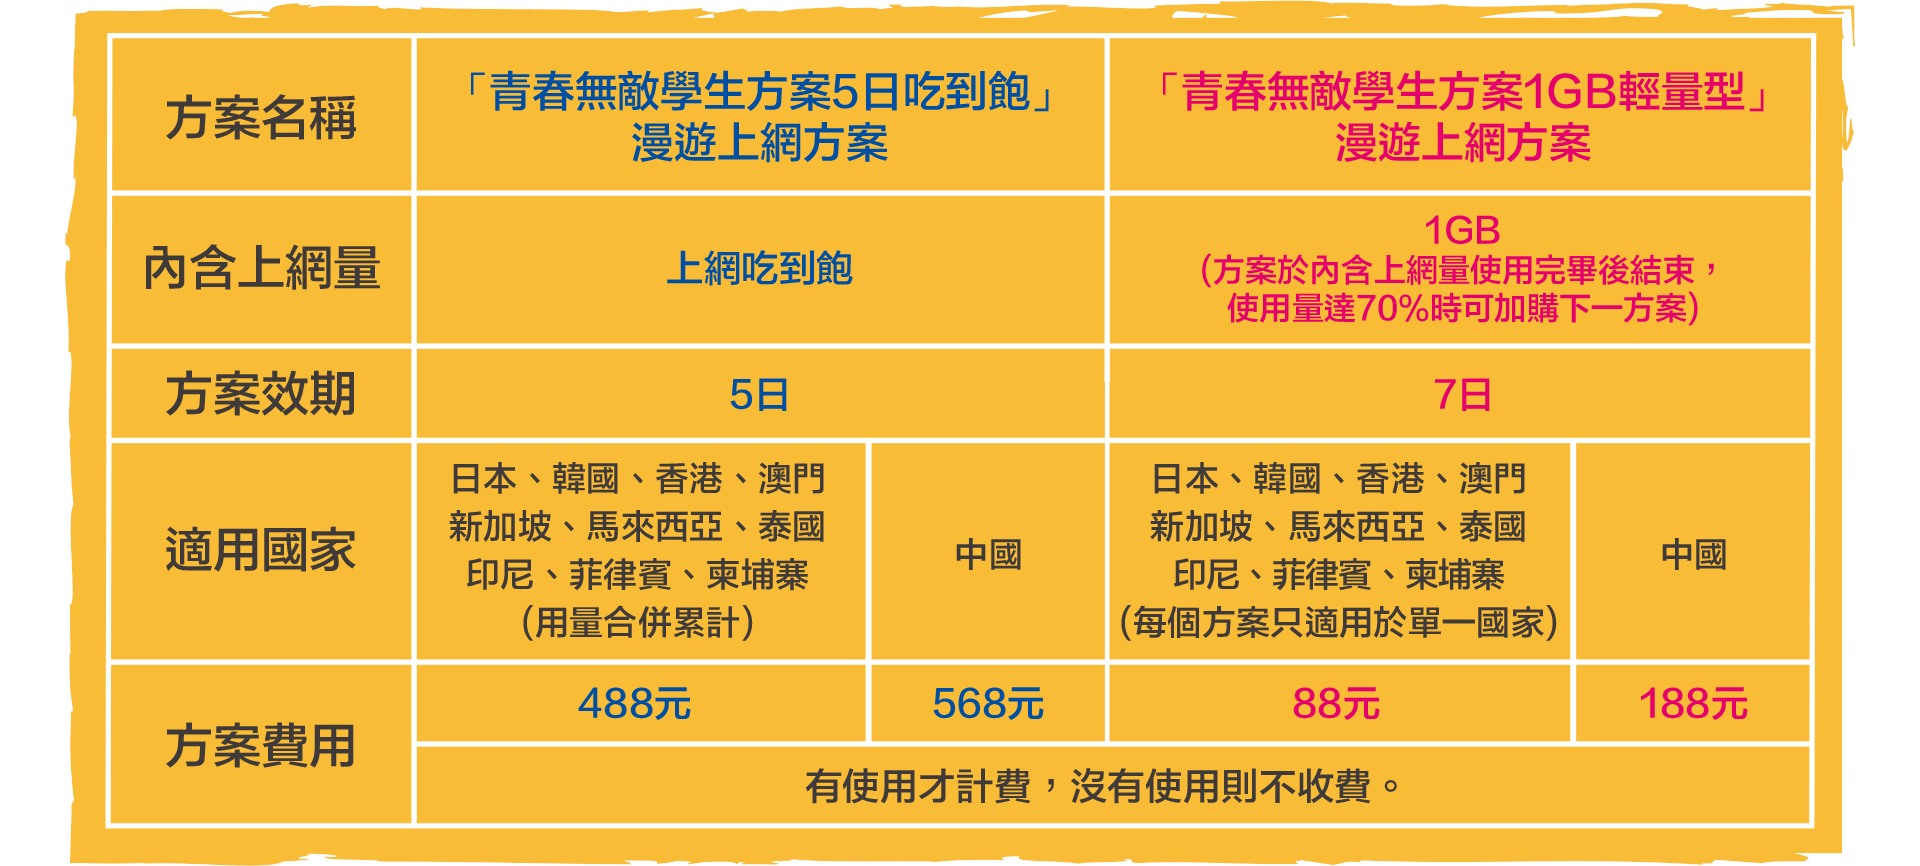
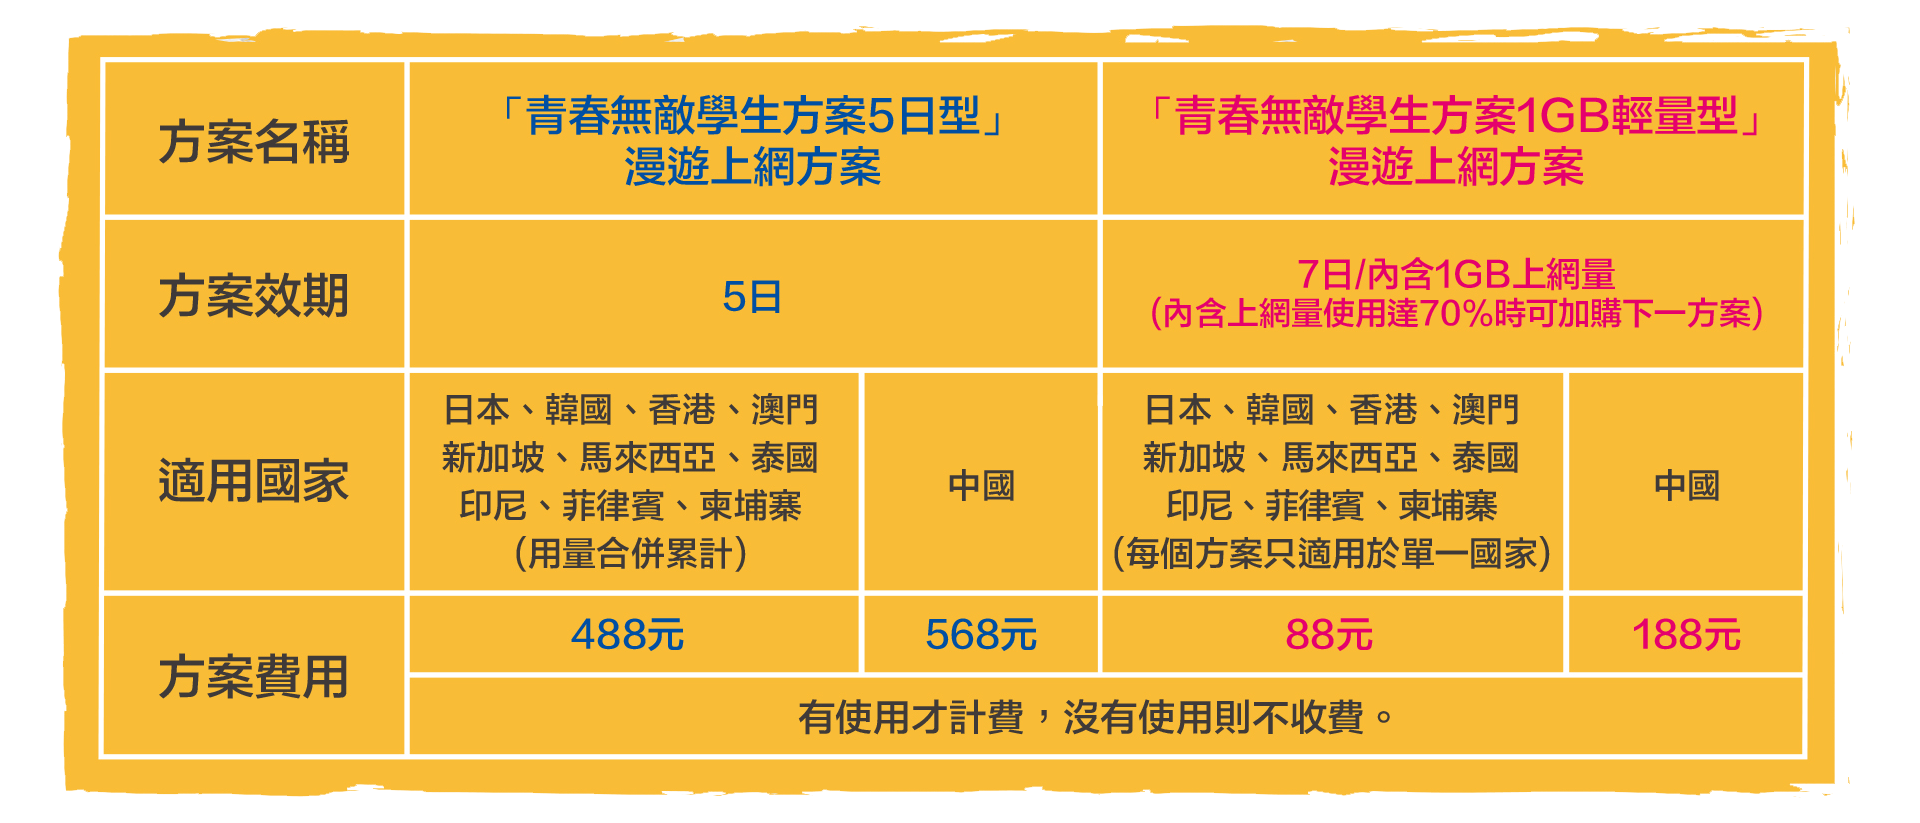
國際漫遊
學生方案 表格調整 保護文字調整
大4G方案 表格調整 保護文字調整
主頁 各國 吃到飽文字移除 保護文字調整
Hamipay 保護文字調整

diff --git a/demo/international/roaming/index.html b/demo/international/roaming/index.html
@@ -4693,7 +4693,7 @@
 
                         <div class="good">以量計價: 1MB約20元
                             <br />
-                            <span class="red">上網吃到飽: 1日298元</span>
+                            <span class="red">上網1日298元</span>
                         </div>
                         <a target="_blank"
                             href="https://m.emome.net/roamingIn.do?id=14b485bde6200000fe46613117cbc09a" onclick="gtag('event', 'Kor-1d', {'event_category': 'Kor', 'event_label': 'Kor'});">
@@ -4702,7 +4702,7 @@
                     </div>
 
                 </div>
-                <p>中華電信網路門市、中華電信APP限時特價期間至2019/12/31止。</p>
+                <p>中華電信網路門市、中華電信APP限時特價期間至2020/06/30止。</p>
 
             </div>
 
@@ -4768,7 +4768,7 @@
 
                             <div class="good">以量計價: 1MB約20元
                                 <br />
-                                <span class="red">上網吃到飽: 1日298元</span>
+                                <span class="red">上網1日298元</span>
                             </div>
                             <a target="_blank"
                                 href="https://m.emome.net/roamingIn.do?id=14b485bde6200000fe46613117cbc09a " onclick="gtag('event', 'cn-1d', {'event_category': 'cn', 'event_label': 'cn'});">
@@ -4778,7 +4778,7 @@
                         </div>
                     </div>
                 </div>
-                <p>中華電信網路門市、中華電信APP限時特價期間至2019/12/31止。</p>
+                <p>中華電信網路門市、中華電信APP限時特價期間至2020/06/30止。</p>
             </div>
 
 
@@ -4847,7 +4847,7 @@
 
                             <div class="good">以量計價: 1MB約20元
                                 <br />
-                                <span class="red">上網吃到飽: 1日298元</span>
+                                <span class="red">上網1日298元</span>
                             </div>
                             <a target="_blank"
                                 href="https://m.emome.net/roamingIn.do?id=14b485bde6200000fe46613117cbc09a" onclick="gtag('event', 'hk-1d', {'event_category': 'hk', 'event_label': 'hk'});">
@@ -4857,7 +4857,7 @@
                         </div>
                     </div>
                 </div>
-                <p>中華電信網路門市、中華電信APP限時特價期間至2019/12/31止。</p>
+                <p>中華電信網路門市、中華電信APP限時特價期間至2020/06/30止。</p>
             </div>
             <div class="title es">
 
@@ -4910,7 +4910,7 @@
 
                             <div class="good">以量計價: 1MB約20元
                                 <br />
-                                <span class="red">上網吃到飽: 1日298元</span>
+                                <span class="red">上網1日298元</span>
                             </div>
                             <a target="_blank"
                                 href="https://m.emome.net/roamingIn.do?id=14b485bde6200000fe46613117cbc09a" onclick="gtag('event', 'sa-1d', {'event_category': 'sa', 'event_label': 'sa'});">
@@ -4960,7 +4960,7 @@
                             <h5>日租型</h5>
                             <div class="good">以量計價: 1MB約20元
                                 <br />
-                                <span class="red">上網吃到飽: 1日298元</span>
+                                <span class="red">上網1日298元</span>
                             </div>
                             <a target="_blank"
                                 href="https://m.emome.net/roamingIn.do?id=14b485bde6200000fe46613117cbc09a" onclick="gtag('event', 'vietnam-1d', {'event_category': 'vietnam', 'event_label': 'vietnam'});">
@@ -5014,7 +5014,7 @@
                             <h5>日租型</h5>
                             <div class="good">以量計價: 1MB約20元
                                 <br />
-                                <span class="red">上網吃到飽: 1日398元</span>
+                                <span class="red">上網1日298元</span>
                             </div>
                             <a target="_blank"
                                 href="https://m.emome.net/roamingIn.do?id=1606ce321bc000001c3a9bcbd17a381d" onclick="gtag('event', 'sa1-1d', {'event_category': 'sa1', 'event_label': 'sa1'});">
@@ -5077,7 +5077,7 @@
                             <h5>日租型</h5>
                             <div class="good">以量計價: 1MB約20元
                                 <br />
-                                <span class="red">上網吃到飽: 1日298元</span>
+                                <span class="red">上網1日298元</span>
                             </div>
                             <a target="_blank"
                                 href="https://m.emome.net/roamingIn.do?id=14bcfebeb8200000055951b187f559ed" onclick="gtag('event', 'ua-1d', {'event_category': 'ua', 'event_label': 'ua'});">
@@ -5137,7 +5137,7 @@
                             <b></b>
                             <div class="good">以量計價: 1MB約20元
                                 <br />
-                                <span class="red">上網吃到飽: 1日398元</span>
+                                <span class="red">上網1日398元</span>
                             </div>
                             <a target="_blank"
                                 href="https://m.emome.net/roamingIn.do?id=1606ce321bc000001c3a9bcbd17a381d" onclick="gtag('event', 'aur-1d', {'event_category': 'aur', 'event_label': 'aur'});">
@@ -5190,7 +5190,7 @@
                             <h5>日租型</h5>
                             <div class="good">以量計價: 1MB約20元
                                 <br />
-                                <span class="red">上網吃到飽: 1日598元</span>
+                                <span class="red">上網1日598元</span>
                             </div>
                             <a target="_blank"
                                 href="https://m.emome.net/roamingIn.do?id=15919f5e0b20000072051e5875b099ab" onclick="gtag('event', 'eur-1d', {'event_category': 'eur', 'event_label': 'eur'});">
@@ -5434,7 +5434,7 @@
                         1.「漫遊上網方案」生效期間僅限各方案表列國家使用，方案於收到開通簡訊後生效。方案生效期間至不適用國家、船舶漫遊及航空漫遊，系統會自動暫停您的漫遊上網服務，以避免產生高額漫遊費用；方案結束前，若您再次回到適用國家後，系統會自動恢復漫遊上網服務。若您在方案不適用國家仍有漫遊上網需求，請撥免費*122#、依簡訊指示回傳對應代碼(國外須付費)或洽客服專線(中華行動電話直撥+886-928-000-086免付費客服專線)申請開啟漫遊上網服務即可，用量將依漫遊上網原價計收。
 
                         <br>
-                        2.漫遊上網方案為單次租用型服務，客戶申請本方案成功後，無法申請退費或調改其他方案，僅能以退租處理，即使於方案啟動成功當天退租，方案生效期間，若已產生上網用量，仍將依使用量收取費用。
+                        2.漫遊上網方案為單次租用型服務，客戶申請之方案啟動成功後，無法申請退費或調改其他方案，僅能以退租處理，即使於方案啟動成功當天退租，方案生效期間，仍將依方案收費原則收取費用。
                         <br>
                         3.「輕量型方案」除「輕量型-美國」方案內含美國、波多黎各及美屬維京群島之AT&T網路可合併計費，以及「2GB 768輕量型」方案內含歐洲 、亞洲、 非洲等部分國家可跨國使用合併計費外，若至其他國家，則須個別申請適用國家之方案。請確實了解方案內容後再行申請。
                         <br>
@@ -5447,7 +5447,7 @@
                         <br>
                         7.中華電信提醒您，為避免產生鉅額漫遊費用，手機、終端設備或SIM卡在國外遺失或被竊時，應立即通知本公司客服中心(中華行動電話直撥+886-928-000-086免付費客服專線)辦理掛失，若您未主動通知客服辦理停話，您仍需支付相關漫遊費用。
                         <br> 8.本方案係透過中華門號註冊當地網路時使用，若您另有申請環球卡服務，請依您的使用需求，將門號切換至適用的模式，以避免產生非預期之漫遊話費。
-                        <br> 9.各方案適用期間、涵蓋國家、方案內容、使用說明及申請方式依emome網站公告為準，中華電信保有隨時修改、暫停、終止漫遊上網方案之權利。
+                        <br> 9.各方案適用期間、涵蓋國家、方案內容、使用說明及申請方式依網路門市及emome網站公告為準，中華電信保有隨時修改、暫停、終止漫遊上網方案之權利。
                         <br>
                     </p>
                 </div>

diff --git a/demo/international/roamingbig4g/index.html b/demo/international/roamingbig4g/index.html
@@ -279,22 +279,22 @@ height="0" width="0" style="display:none;visibility:hidden"></iframe></noscript>
     		</div>
     	<div class="reminder open04">
 			<ol>
-				<li>本活動期間內(108/10/1-109/1/1)申辦大4G方案月繳999元以上且租期為24個月以上者，於合約租期內可透過中華電信網路門市、APP或手機直撥800客服，申請「大4G日租吃到飽」及「大4G定量型」漫遊上網方案。</li>
-				<li>「大4G日租吃到飽」漫遊上網方案依各區域之日租費用計費，上網無限瀏覽，生效期間每日(24小時)只要有產生上網用量，即收取當日日租費用，無法退費，完全沒有使用則不計費。可依需求一次申請多天，方案自生效時間起算至天數ｘ24小時後自動終止(以台灣時間計算，例如：客戶於4月1日15:00:00申請立即生效「大4G日租168吃到飽」方案ｘ5天，方案將在4月6日14:59:59終止)。方案生效期間於各方案適用國家特定優惠網之用量合併累計。
+				<li>本活動期間內(108/10/1-109/1/1)申辦大4G方案月繳999元以上且租期為24個月以上者，於合約租期內可透過中華電信網路門市、APP或手機直撥800客服，申請「大4G日租型」及「大4G定量型」漫遊上網方案。</li>
+				<li>「大4G日租型」漫遊上網方案依各區域之日租費用計費，生效期間每日(24小時)只要有產生上網用量，即收取當日日租費用，無法退費，完全沒有使用則不計費。可依需求一次申請多天，方案自生效時間起算至天數ｘ24小時後自動終止(以台灣時間計算，例如：客戶於4月1日15:00:00申請立即生效「大4G日租168」方案ｘ5天，方案將在4月6日14:59:59終止)。方案生效期間於各方案適用國家特定優惠網之用量合併累計。
 					<p>月繳999/1,199元方案客戶優惠價：</p>
 					<ul>
-						<li>大4G日租178吃到飽：適用中港澳、日韓、東南亞、美加、紐澳等熱門旅遊國家，178元/天</li>
-						<li>大4G日租268吃到飽：適用中東、南亞、大洋洲特定國家，268元/天</li>
-						<li>大4G日租468吃到飽：適用歐洲、非洲特定國家，468元/天</li>
+						<li>大4G日租178：適用中港澳、日韓、東南亞、美加、紐澳等熱門旅遊國家，178元/天</li>
+						<li>大4G日租268：適用中東、南亞、大洋洲特定國家，268元/天</li>
+						<li>大4G日租468：適用歐洲、非洲特定國家，468元/天</li>
 					</ul>
 					<p>月繳1,399/1,599/1,799/2,699元方案客戶優惠價：</p>
 					<ul>
-						<li>大4G日租168吃到飽：適用中港澳、日韓、東南亞、美加、紐澳等熱門旅遊國家，168元/天</li>
-						<li>大4G日租258吃到飽：適用中東、南亞、大洋洲特定國家，258元/天</li>
-						<li>大4G日租458吃到飽：適用歐洲、非洲特定國家，458元/天</li>
+						<li>大4G日租168：適用中港澳、日韓、東南亞、美加、紐澳等熱門旅遊國家，168元/天</li>
+						<li>大4G日租258：適用中東、南亞、大洋洲特定國家，258元/天</li>
+						<li>大4G日租458：適用歐洲、非洲特定國家，458元/天</li>
 					</ul>
 				</li>
-				<li>為方便使用，吃到飽另提供2~100個月租期之「大旅行家」方案，生效期間出國至上述「大4G日租吃到飽」方案適用國家時，每日(台灣時間00:00~23:59)自動以「大4G日租吃到飽」漫遊上網方案之各區域吃到飽優惠價計費。本方案僅限透過手機直撥800申請。</li>
+				<li>為方便使用，吃到飽另提供2~100個月租期之「大旅行家」方案，生效期間出國至上述「大4G日租型」方案適用國家時，每日(台灣時間00:00~23:59)自動以「大4G日租型」漫遊上網方案之各區域上網優惠價計費。本方案僅限透過手機直撥800申請。</li>
 				<li>「大4G定量型」漫遊上網方案依適用國家，以固定費用提供固定內含漫遊上網量，用完則降速至128kbps，可繼續上網，不額外收費。方案生效期間贈送漫遊語音發話20分鐘免費，含撥打至當地、回台灣、至第三國等，以「分」為計算單位，不足1分鐘以1分鐘計算，贈送量用完後，以漫遊原價計價。方案啟動後即收取全額費用，無法退費，方案終止後，未用完之上網量及贈送量將歸零不得遞延。方案生效期間於各方案適用國家特定優惠網之用量合併累計。
 					<p>月繳999/1,199元方案客戶優惠價：</p>
 					<ul>

diff --git a/demo/international/roamingHamiPay/index.html b/demo/international/roamingHamiPay/index.html
@@ -270,7 +270,7 @@ height="0" width="0" style="display:none;visibility:hidden"></iframe></noscript>
     		</div>
     	<div class="reminder open04">
 			<ol>
-				<li>「Hami Pay專屬漫遊上網方案」生效期間僅限各方案表列國家使用(各方案內含國家可合併計費)，方案於收到開通簡訊後生效。方案生效期間至不適用國家、船舶漫遊及航空漫遊，系統會自動暫停您的漫遊上網服務，以避免產生高額漫遊費用；方案結束前，若您再次回到適用國家後，系統會自動恢復漫遊上網服務。若您在方案不適用國家仍有漫遊上網需求，請撥免費*122#、依簡訊指示回傳對應代碼(國外須付費)或洽客服專線(中華行動電話直撥+886-928-000-086免付費客服專線)申請開啟漫遊上網服務即可，用量將依漫遊上網原價計收。</li>
+				<li>「Hami Pay專屬漫遊上網方案」生效期間僅限各方案表列國家使用(各方案內含國家可合併計費)，方案於收到開通簡訊後生效，於內含上網量2GB使用完畢後結束；方案生效期間不可加購方案，需於使用完後，才可購買其他漫遊上網方案。方案生效期間至不適用國家、船舶漫遊及航空漫遊，系統會自動暫停您的漫遊上網服務，以避免產生高額漫遊費用；方案結束前，若您再次回到適用國家後，系統會自動恢復漫遊上網服務。若您在方案不適用國家仍有漫遊上網需求，請撥免費*122#、依簡訊指示回傳對應代碼(國外須付費)或洽客服專線(中華行動電話直撥+886-928-000-086免付費客服專線)申請開啟漫遊上網服務即可，用量將依漫遊上網原價計收。</li>
 				<li>漫遊上網方案為單次租用型服務，客戶申請本方案成功後，無法申請退費或調改其他方案，僅能以退租處理，即使於方案申請成功當天退租，仍將依方案計費方式收費。 </li>
 				<li>為避免產生額外之漫遊上網費用，「出國上飛機前」、「於國外上網服務使用後」或於「國外使用Wi-Fi時」，請關閉行動數據、漫遊上網及手機同步等功能。</li>
 				<li>國際漫遊上網實際傳輸速率會因國外業者提供之網路系統、涵蓋、上網地點之地形、氣候、建築物遮蔽情形及所使用之終端設備、使用人數、手機APP應用軟體等因素而有所差異，上網品質無法完全與國內相同；且因各國外漫遊網對個人熱點分享開放策略不同，可否使用須視客戶註冊之漫遊網而定。若在國外發生無法使用時，建議重新開機，以利系統為您自動註冊是用網路，或以中華行動電話直撥+886-928-000-086免付費客服專線。</li>

diff --git a/demo/international/roamingforstu/index.html b/demo/international/roamingforstu/index.html
@@ -255,8 +255,8 @@ height="0" width="0" style="display:none;visibility:hidden"></iframe></noscript>
 		<div class="reminder">
 			<h2>貼心小叮嚀</h2>
 			<ol>
-				<li> 參加本方案客戶於合約租期內，可透過中華電信網路門市、APP或手機直撥800客服，申請「青春無敵學生方案5日吃到飽」及「青春無敵學生方案1GB輕量型」漫遊上網方案。</li>
-				<li>「青春無敵學生方案5日吃到飽」漫遊上網方案有效期限為「5日」（連續120小時），上網無限瀏覽，方案生效期間只要有產生上網用量即收取方案全額費用，無法退費，方案生效期間完全沒有使用則不收費。中國方案僅針對於該國特定網路之用量單獨計費，若至其他國家，則須另外申請適用國家之方案；其餘日本、韓國、香港、澳門等適用國家於方案生效期間在各國特定優惠網之用量合併累計。
+				<li> 參加本方案客戶於合約租期內，可透過中華電信網路門市、APP或手機直撥800客服，申請「青春無敵學生方案５日型」及「青春無敵學生方案1GB輕量型」漫遊上網方案。</li>
+				<li>「青春無敵學生方案５日型」漫遊上網方案有效期限為「5日」（連續120小時），方案生效期間只要有產生上網用量即收取方案全額費用，無法退費，方案生效期間完全沒有使用則不收費。中國方案僅針對於該國特定網路之用量單獨計費，若至其他國家，則須另外申請適用國家之方案；其餘日本、韓國、香港、澳門等適用國家於方案生效期間在各國特定優惠網之用量合併累計。
 					<ul>
 						<li>日本、韓國、香港、澳門、新加坡、馬來西亞、泰國、印尼、菲律賓及柬埔寨(用量合併累計)：488元/5天。</li>
 						<li>中國： 568元/5天。</li>
